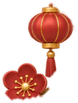
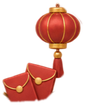
festivals: 春節右端用左側的裝飾翻轉（保留紅包）

Changed region(s): [[0.0256, 0.0, 0.9744, 0.9903]]

diff --git a/scripts/import_festivals.py b/scripts/import_festivals.py
@@ -146,7 +146,10 @@ PARTS = ("mimimo", "momo", "frame")
 # cluster too small to read (the first candidate starts 12 pt into the glass),
 # so by default only the right end is dressed.
 ADAPT_DEFAULT = {"bust": 0.56, "band": 6.5, "tau": 0.12, "thin": 9, "fragment": 0.08, "left": None, "right": "right"}
-ADAPT = {}
+ADAPT = {
+    # The right cluster lost its red envelopes with the tube; the left one keeps them.
+    "spring_festival": {"right": "left-mirrored"},
+}
 
 # Capsule colours under white text (docs/DESIGN.md §4): light top 3.2:1 and
 # bottom 4:1, dark at least 3:1, Increase Contrast 5:1. Each target has a
